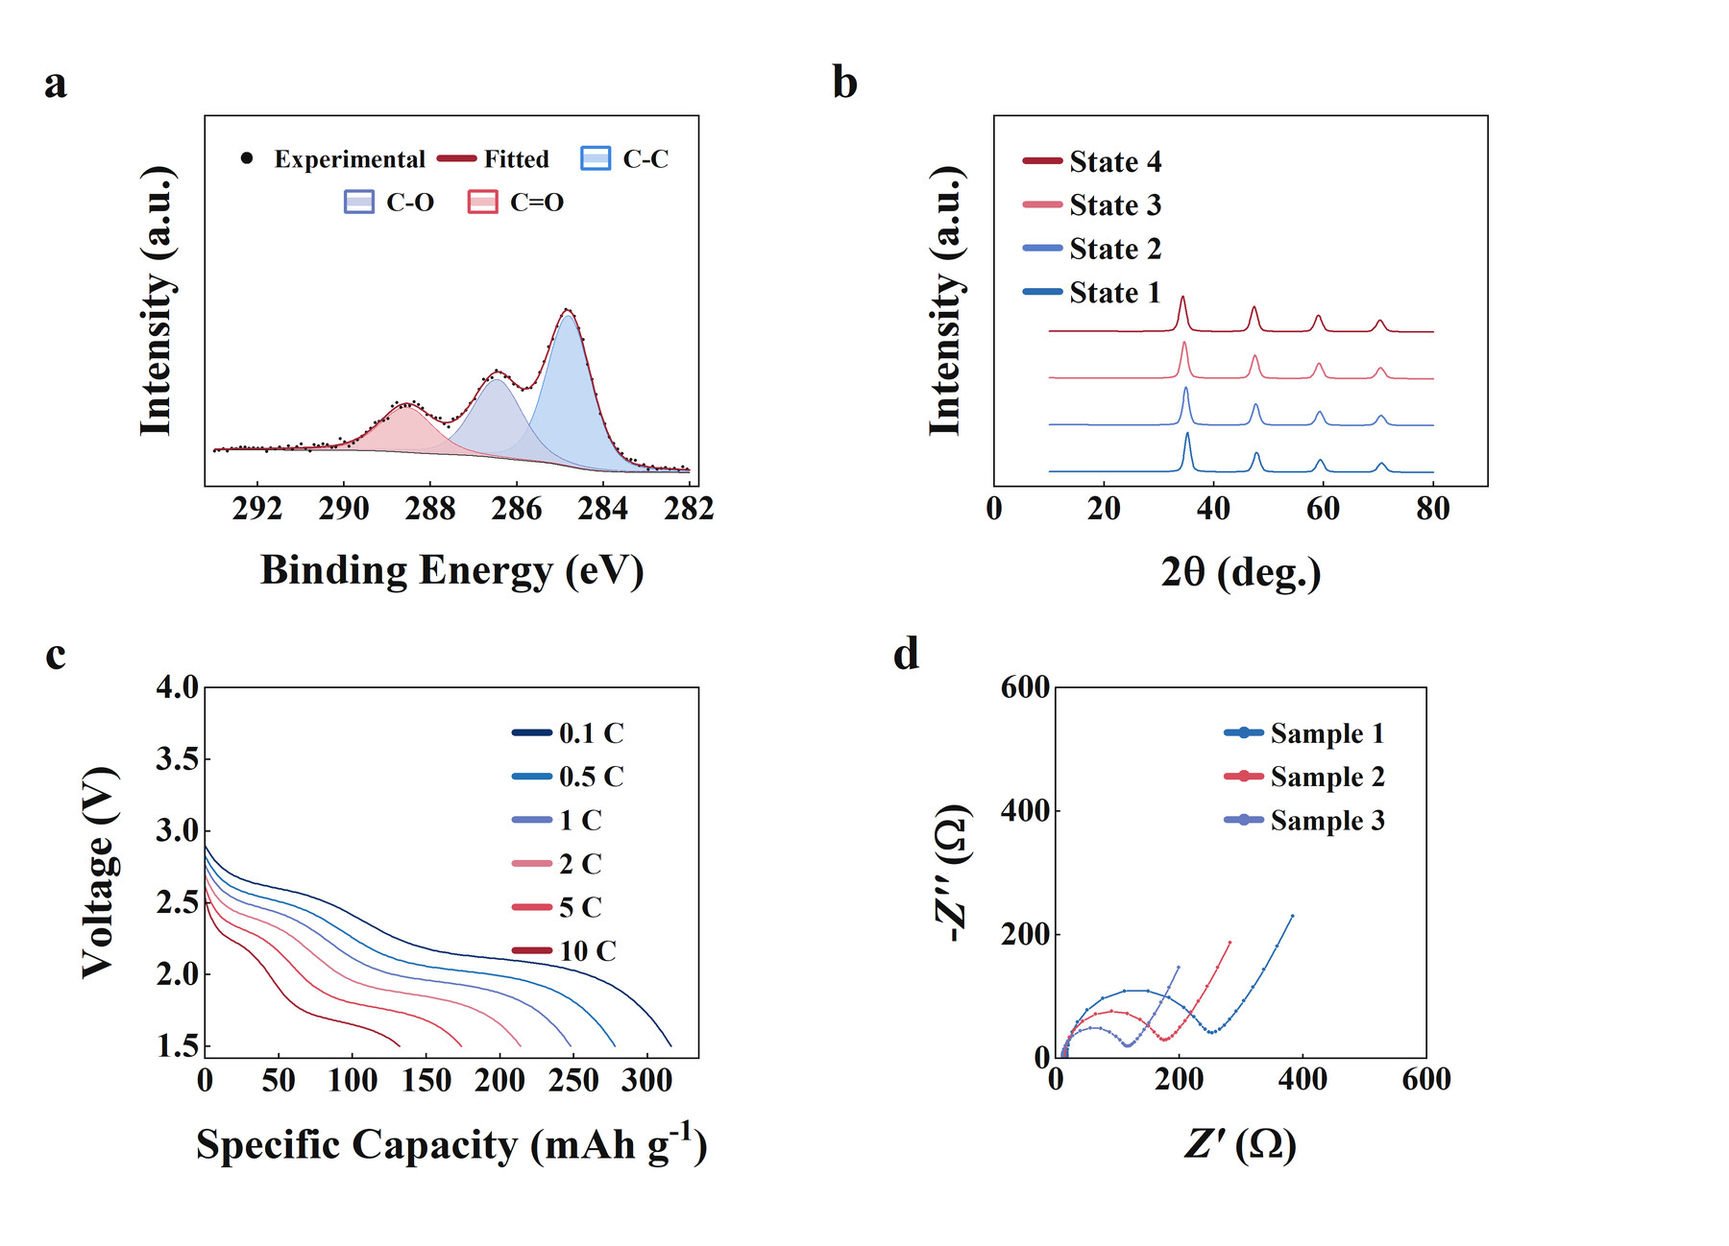
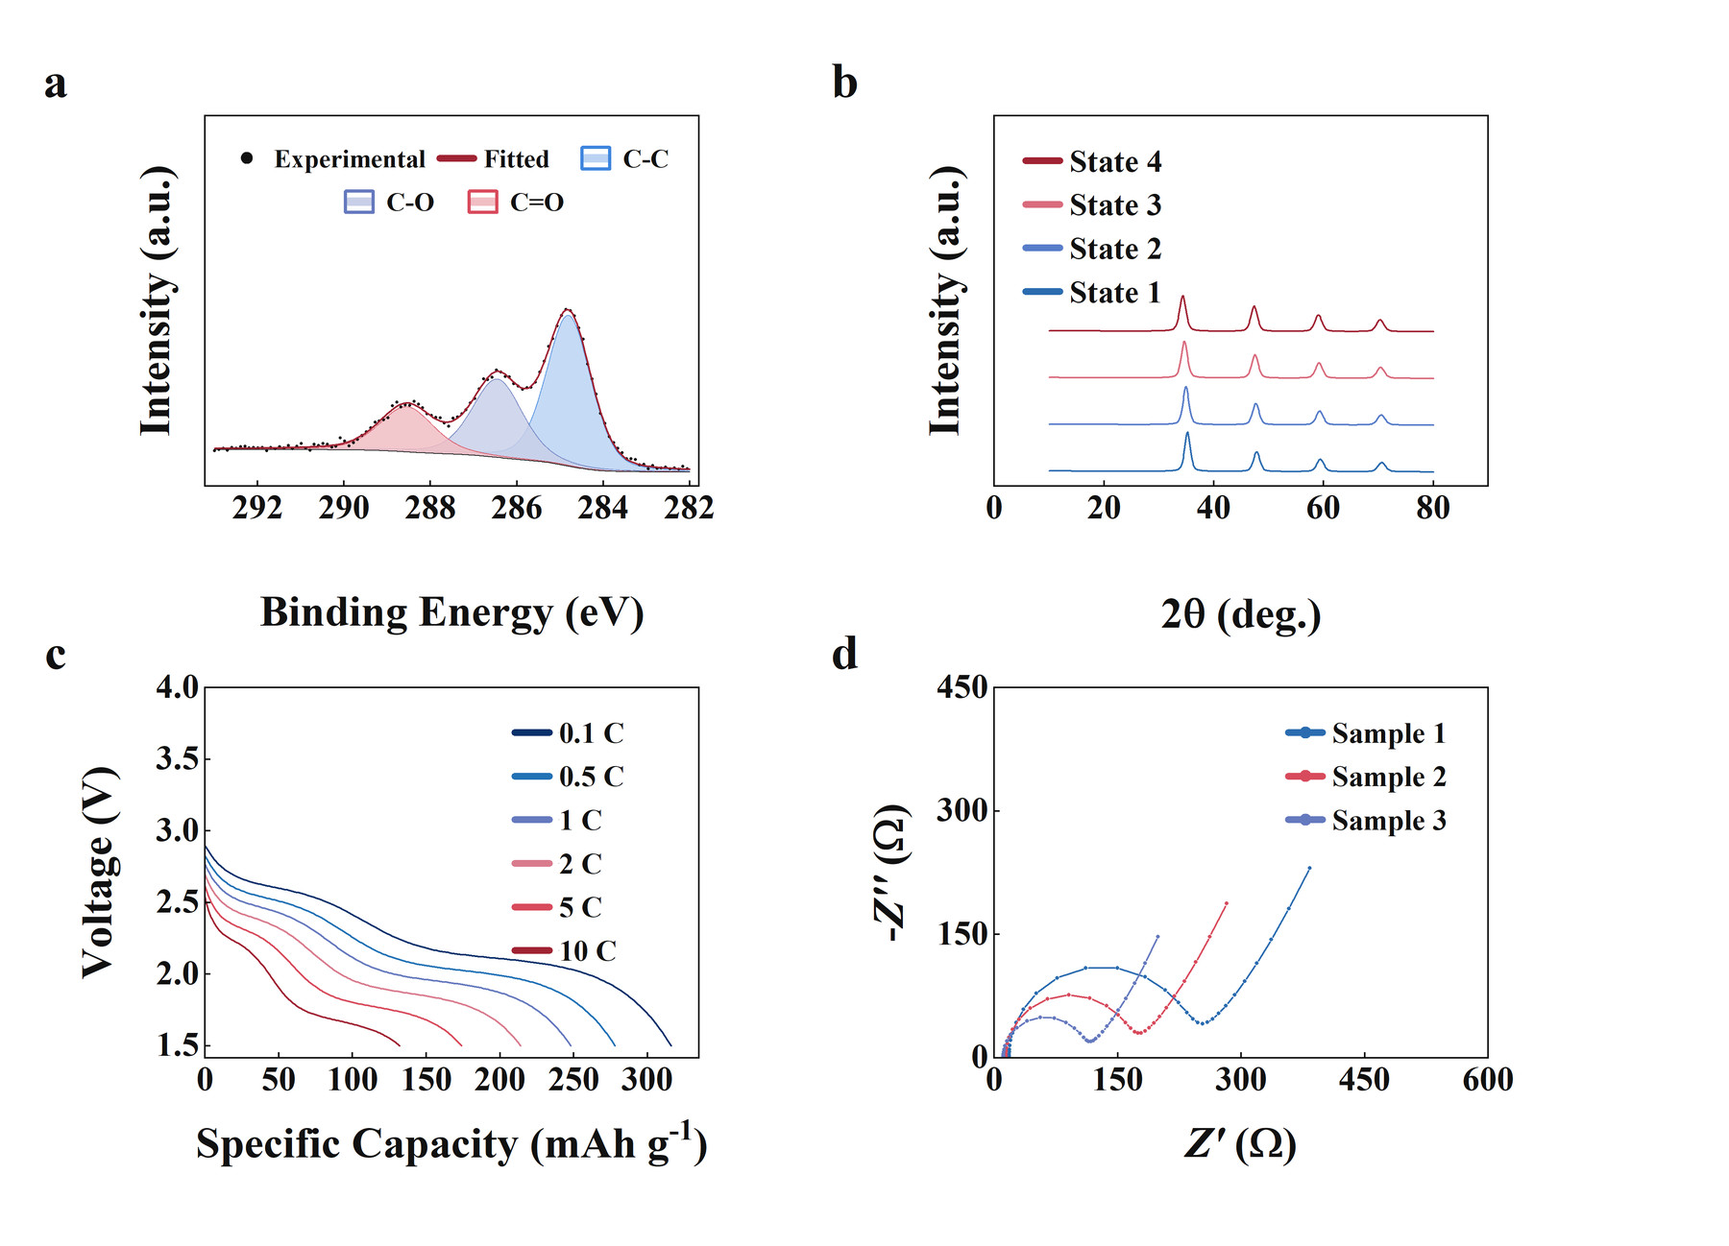
feat(v8.0): unify 2x2 composite Nyquist 4:3 frame geometry, add frame guard, and release v8.0.0

diff --git a/skills/sci-origin-pipeline/scripts/origin_builder.py b/skills/sci-origin-pipeline/scripts/origin_builder.py
@@ -4134,7 +4134,7 @@ def build_composite_opju(
                 )
                 panel_sheets.append((letter, p, wks))
 
-        # Master 2x2 Composite Page (row-aligned 4:3 `4.10 x 3.08 in` + 1:1 `3.08 x 3.08 in` physical boxes)
+        # Master 2x2 Composite Page (grid-aligned 4:3 `4.10 x 3.075 in` physical boxes across all 1D & EIS Nyquist panels)
         op.pe.cd(root_path)
         gp_comp = op.new_graph(lname=f"{title}_MasterComposite")
         col_step_in = 6.55
@@ -4149,7 +4149,7 @@ def build_composite_opju(
             r_i, c_i = idx // nc, idx % nc
             c_left_in = 1.70 + c_i * col_step_in
             c_top_in = 0.96 + r_i * row_step_in
-            c_box_in = (c_left_in, c_top_in, 4.10, 3.08)
+            c_box_in = (c_left_in, c_top_in, 4.10, 3.075)
             rect_c = ot.rect_in_to_page_pct(*c_box_in, comp_w_in, comp_h_in)
 
             gl_c = gp_comp[0] if idx == 0 else gp_comp.add_layer(0)
@@ -4250,7 +4250,7 @@ def build_composite_opju(
                 )
 
             elif ptype == "nyquist":
-                max_zr_c, max_nzi_c, hf_max_c = 0.0, 0.0, 0.0
+                max_zr_c, max_nzi_c, hf_zr_c, hf_nzi_c = 0.0, 0.0, 0.0, 0.0
                 leg_c = []
                 for wks_e, item in ref_obj:
                     c_hex = ot.normalize_hex(item.get("color", "#3E86DE"))
@@ -4267,19 +4267,15 @@ def build_composite_opju(
                     max_zr_c = max(max_zr_c, float(np.max(zr_a)))
                     max_nzi_c = max(max_nzi_c, float(np.max(nzi_a)))
                     n_hf_c = max(6, len(zr_a) // 3)
-                    hf_max_c = max(hf_max_c, float(np.max(zr_a[:n_hf_c])), float(np.max(nzi_a[:n_hf_c])))
+                    hf_zr_c = max(hf_zr_c, float(np.max(zr_a[:n_hf_c])))
+                    hf_nzi_c = max(hf_nzi_c, float(np.max(nzi_a[:n_hf_c])))
 
-                raw_sp_c = max(max_zr_c, max_nzi_c)
-                lim = min(raw_sp_c * 1.06, max(1200.0, max_zr_c * 2.35)) if max_nzi_c > 2.2 * max(max_zr_c, 1.0) else max(raw_sp_c * 1.12, 1.0)
-                step_c = 1000.0 if lim > 1500.0 else (500.0 if lim > 800.0 else 200.0)
-                lim = math.ceil(lim / step_c) * step_c
+                x_lim_c, y_lim_c, step_c = compute_isometric_4_3_bounds(max_zr_c, max_nzi_c)
+                xlim_c_top = x_lim_c[1]
+                ylim_c_top = y_lim_c[1]
 
-                nyq_left_in = c_left_in + 0.5 * (4.10 - 3.08)
-                nyq_box_in = (nyq_left_in, c_top_in, 3.08, 3.08)
-                rect_nyq = ot.rect_in_to_page_pct(*nyq_box_in, comp_w_in, comp_h_in)
-
-                gl_c.set_xlim(0.0, lim)
-                gl_c.set_ylim(0.0, lim)
+                gl_c.set_xlim(0.0, xlim_c_top)
+                gl_c.set_ylim(0.0, ylim_c_top)
                 _style_origin_layer_boxed(
                     gl_c,
                     "\\i(Z') (\\g(W))",
@@ -4288,20 +4284,26 @@ def build_composite_opju(
                     box_thickness=cell_bt,
                     tick_label_pt=16.5,
                     axis_title_pt=20.0,
-                    layer_rect_pct=rect_nyq,
-                    layer_rect_in=nyq_box_in,
+                    layer_rect_pct=rect_c,
+                    layer_rect_in=c_box_in,
                     remove_legend=True,
                     op=op,
                     gp=gp_comp,
                     layer_num_1based=lay_num,
                 )
                 activate_layer(op, gp_comp, lay_num)
-                gl_c.lt_exec(f"layer.x.inc={step_c}; layer.y.inc={step_c};")
+                gl_c.lt_exec(
+                    f"layer.x.from=0; layer.x.to={xlim_c_top}; layer.x.inc={step_c}; "
+                    f"layer.y.from=0; layer.y.to={ylim_c_top}; layer.y.inc={step_c};"
+                )
                 if p_title_str:
-                    add_page_text_label(op, gp_comp, gl_c, lay_num, f"PnlTitle{lay_num}", p_title_str, rect_nyq[0] + 0.5 * rect_nyq[2], max(1.8, rect_nyq[1] - 2.3), fontsize=17.5, pos_scatter=0, format_math=False)
+                    add_page_text_label(op, gp_comp, gl_c, lay_num, f"PnlTitle{lay_num}", p_title_str, rect_c[0] + 0.5 * rect_c[2], max(1.8, rect_c[1] - 2.3), fontsize=17.5, pos_scatter=0, format_math=False)
 
-                if p.get("add_hf_inset", True) and 0.0 < hf_max_c < 0.45 * lim:
-                    in_lim_c = math.ceil((hf_max_c * 1.18) / 20.0) * 20.0 if hf_max_c > 25.0 else hf_max_c * 1.18
+                hf_max_c = max(hf_zr_c, hf_nzi_c)
+                if p.get("add_hf_inset", True) and 0.0 < hf_max_c < 0.45 * xlim_c_top:
+                    in_u_c = max((hf_zr_c * 1.16) / 4.0, (hf_nzi_c * 1.16) / 3.0)
+                    in_u_c = math.ceil(in_u_c / 5.0) * 5.0 if in_u_c >= 15.0 else max(round(in_u_c, 2), 0.5)
+                    in_xl_c, in_yl_c = 4.0 * in_u_c, 3.0 * in_u_c
                     gl_in_c = gp_comp.add_layer(0)
                     in_lay_num = int(gp_comp.obj.Layers.Count)
                     activate_layer(op, gp_comp, in_lay_num)
@@ -4311,8 +4313,8 @@ def build_composite_opju(
                     font_ic = f"layer.x.label.font={f_id_c}; layer.y.label.font={f_id_c}; " if f_id_c > 0 else ""
                     wks_c_bg = op.new_book("w", lname=f"{title}_CInBG")[0]
                     wks_c_bg.cols = 3
-                    wks_c_bg.from_list(0, [0.0, in_lim_c], axis="X")
-                    wks_c_bg.from_list(1, [in_lim_c, in_lim_c], axis="Y")
+                    wks_c_bg.from_list(0, [0.0, in_xl_c], axis="X")
+                    wks_c_bg.from_list(1, [in_yl_c, in_yl_c], axis="Y")
                     wks_c_bg.from_list(2, [0.0, 0.0], axis="Y")
                     pc_bu = gl_in_c.add_plot(wks_c_bg, coly=1, colx=0, type="l")
                     pc_bl = gl_in_c.add_plot(wks_c_bg, coly=2, colx=0, type="l")
@@ -4322,10 +4324,11 @@ def build_composite_opju(
                     pc_bu.transparency = 0
                     pc_bl.transparency = 100
                     gl_in_c.lt_exec("range rbu = !1; set rbu -w 0; range rbl = !2; set rbl -w 0;")
-                    in_li = nyq_left_in + 0.46 * 3.08
-                    in_ti = c_top_in + 0.38 * 3.08
-                    in_si = 0.44 * 3.08
-                    ins_c_scale = ot.compute_origin_layer_scale(in_si, in_si, comp_w_in, comp_h_in)
+                    in_wi = 0.42 * c_box_in[2]
+                    in_hi = 0.42 * c_box_in[3]
+                    in_li = c_left_in + 0.51 * c_box_in[2]
+                    in_ti = c_top_in + 0.42 * c_box_in[3]
+                    ins_c_scale = ot.compute_origin_layer_scale(in_wi, in_hi, comp_w_in, comp_h_in)
                     for wks_e, item in ref_obj:
                         c_hex_i = ot.normalize_hex(item.get("color", "#3E86DE"))
                         p_ic = gl_in_c.add_plot(wks_e, coly=2, colx=1, type="y")
@@ -4335,19 +4338,23 @@ def build_composite_opju(
                         gl_in_c.lt_exec(f"range ric = !{ic_idx}; set ric -w {int(round((cell_cw_u * 0.72) / ins_c_scale))};")
                         p_ic.symbol_kind = 2
                         p_ic.symbol_interior = 0
-                    gl_in_c.set_xlim(0.0, in_lim_c)
-                    gl_in_c.set_ylim(0.0, in_lim_c)
+                    gl_in_c.set_xlim(0.0, in_xl_c)
+                    gl_in_c.set_ylim(0.0, in_yl_c)
                     ins_c_bt = max(1.0, round(cell_bt * 0.72, 2))
-                    ins_c_tk_pt = ot.compensate_origin_layer_pt(11.5, in_si, in_si, comp_w_in, comp_h_in)
+                    ins_c_tk_pt = ot.compensate_origin_layer_pt(11.5, in_wi, in_hi, comp_w_in, comp_h_in)
+                    inc_cx = compute_nice_linear_step(0.0, in_xl_c, max_ticks=3) or (2.0 * in_u_c)
+                    inc_cy = compute_nice_linear_step(0.0, in_yl_c, max_ticks=3) or in_u_c
                     gl_in_c.lt_exec(
                         f"layer.fsize=1; "
-                        f"layer.unit=2; layer.left={in_li}; layer.top={in_ti}; layer.width={in_si}; layer.height={in_si}; "
+                        f"layer.unit=2; layer.left={in_li}; layer.top={in_ti}; layer.width={in_wi}; layer.height={in_hi}; "
                         f"layer.color={white_i}; layer.x.grid.show=0; layer.y.grid.show=0; "
                         f"layer.x.showAxes=3; layer.y.showAxes=3; "
                         f"layer.x.thickness={ins_c_bt}; layer.y.thickness={ins_c_bt}; layer.x2.thickness={ins_c_bt}; layer.y2.thickness={ins_c_bt}; "
                         f"layer.x.color={ink_i}; layer.y.color={ink_i}; layer.x2.color={ink_i}; layer.y2.color={ink_i}; "
                         f"layer.x.label.color={ink_i}; layer.y.label.color={ink_i}; "
                         f"layer.x.ticks=1; layer.y.ticks=1; layer.x2.ticks=0; layer.y2.ticks=0; "
+                        f"layer.x.from=0; layer.x.to={in_xl_c}; layer.x.inc={inc_cx}; "
+                        f"layer.y.from=0; layer.y.to={in_yl_c}; layer.y.inc={inc_cy}; "
                         f"layer.x.maxTicks=3; layer.y.maxTicks=3; "
                         f"{font_ic}"
                         f"layer.x.label.pt={ins_c_tk_pt}; layer.y.label.pt={ins_c_tk_pt}; layer.x.label.bold={bold_i}; layer.y.label.bold={bold_i}; "
@@ -4355,7 +4362,7 @@ def build_composite_opju(
                     )
 
                 configure_custom_legend(
-                    gl_c, leg_c, fontsize=13.5, pos_mode="corner_upper_right", layer_rect_pct=rect_nyq, op=op, gp=gp_comp, layer_num_1based=lay_num
+                    gl_c, leg_c, fontsize=13.5, pos_mode="corner_upper_right", layer_rect_pct=rect_c, op=op, gp=gp_comp, layer_num_1based=lay_num
                 )
 
             elif ptype == "xy_series":
@@ -4412,7 +4419,7 @@ def build_composite_opju(
                     gl_c, leg_c, fontsize=13.5, pos_mode="corner_upper_right", layer_rect_pct=rect_c, op=op, gp=gp_comp, layer_num_1based=lay_num
                 )
 
-            tag_left_in = (nyq_left_in if ptype == "nyquist" else c_left_in) - 1.24
+            tag_left_in = c_left_in - 1.24
             tag_top_in = max(0.28, c_top_in - 0.30)
             add_page_text_label(
                 op,

diff --git a/examples/generate_synthetic_gallery.py b/examples/generate_synthetic_gallery.py
@@ -1,5 +1,5 @@
 """
-generate_synthetic_gallery.py - Unified 100% Synthetic Mathematical Demo Generator for SciOrigin v7.0.
+generate_synthetic_gallery.py - Unified 100% Synthetic Mathematical Demo Generator for SciOrigin v8.0.
 
 Generates all 43 publication-ready showcase figures directly in headless OriginPro 2024 (`skip_origin=False`)
 across five modular showcase suites — zero external or private data files required:
@@ -64,9 +64,63 @@ def run_gallery_parts(part: str = "all", gallery_dir: Path = GALLERY_DIR) -> Lis
     return generated
 
 
+def audit_gallery_nyquist_and_composite_frames(gallery_dir: Path = GALLERY_DIR) -> None:
+    """Mechanical pixel-frame guard ensuring EIS Nyquist & 2x2 composite panels never regress to 1:1 square boxes."""
+    import numpy as np
+    from PIL import Image
+
+    gallery_dir = Path(gallery_dir).resolve()
+    for name in ("demo_nyquist_tnr.jpg", "demo_nyquist_arial.jpg", "demo_dual_y_tnr.jpg"):
+        img_p = gallery_dir / name
+        if not img_p.exists():
+            continue
+        gray = np.asarray(Image.open(img_p).convert("L"))
+        dark = gray < 90
+        rows = np.where(dark.mean(axis=1) > 0.35)[0]
+        cols = np.where(dark.mean(axis=0) > 0.35)[0]
+        if len(rows) < 2 or len(cols) < 2:
+            raise AssertionError(f"[FrameGuard] Could not detect closed box frame in {img_p}")
+        ratio = float(cols[-1] - cols[0]) / max(float(rows[-1] - rows[0]), 1.0)
+        if abs(ratio - (4.0 / 3.0)) > 0.025:
+            raise AssertionError(
+                f"[FrameGuard] {name} inner frame ratio is {ratio:.4f} (expected 4:3 = 1.3333). "
+                "Fix: use standard box_rect_w_in x box_rect_h_in (6.40 x 4.80 in) with 4:3 isometric bounds."
+            )
+
+    hero_p = gallery_dir / "demo_hero_composite_2x2.jpg"
+    if hero_p.exists():
+        gray = np.asarray(Image.open(hero_p).convert("L"))
+        h, w = gray.shape
+        quads = {
+            "a": gray[: h // 2, : w // 2],
+            "b": gray[: h // 2, w // 2 :],
+            "c": gray[h // 2 :, : w // 2],
+            "d": gray[h // 2 :, w // 2 :],
+        }
+        boxes = {}
+        for k, q in quads.items():
+            dk = q < 90
+            rs = np.where(dk.mean(axis=1) > 0.35)[0]
+            cs = np.where(dk.mean(axis=0) > 0.35)[0]
+            if len(rs) < 2 or len(cs) < 2:
+                raise AssertionError(f"[FrameGuard] Missing closed box border in hero panel ({k}) of {hero_p}")
+            boxes[k] = (int(cs[0]), int(cs[-1]), int(rs[0]), int(rs[-1]))
+            q_ratio = float(cs[-1] - cs[0]) / max(float(rs[-1] - rs[0]), 1.0)
+            if abs(q_ratio - (4.0 / 3.0)) > 0.03:
+                raise AssertionError(
+                    f"[FrameGuard] Hero composite panel ({k}) ratio is {q_ratio:.4f} (expected 4:3 = 1.3333). "
+                    "Fix: ensure build_composite_opju MasterComposite uses c_box_in (4.10 x 3.075 in) for nyquist too."
+                )
+        if abs(boxes["b"][0] - boxes["d"][0]) > 3 or abs(boxes["b"][1] - boxes["d"][1]) > 3:
+            raise AssertionError(
+                f"[FrameGuard] Hero panels (b)={boxes['b'][:2]} and (d)={boxes['d'][:2]} horizontal borders misaligned! "
+                "Fix: align nyquist panel to c_left_in / rect_c in build_composite_opju."
+            )
+
+
 def main(argv: List[str] | None = None) -> int:
     parser = argparse.ArgumentParser(
-        description="Generate 100% synthetic SciOrigin v7.0 showcase figures via headless OriginPro 2024."
+        description="Generate 100% synthetic SciOrigin v8.0 showcase figures via headless OriginPro 2024."
     )
     parser.add_argument(
         "--part",
@@ -80,8 +134,15 @@ def main(argv: List[str] | None = None) -> int:
         default=GALLERY_DIR,
         help="Destination directory for rendered gallery JPEG files.",
     )
+    parser.add_argument(
+        "--verify-only",
+        action="store_true",
+        help="Run mechanical frame geometry guard on existing gallery JPEGs without launching OriginPro.",
+    )
     args = parser.parse_args(argv)
-    run_gallery_parts(part=args.part, gallery_dir=args.gallery_dir)
+    if not args.verify_only:
+        run_gallery_parts(part=args.part, gallery_dir=args.gallery_dir)
+    audit_gallery_nyquist_and_composite_frames(args.gallery_dir)
     return 0
 
 

diff --git a/skills/sci-origin-pipeline/scripts/plotter.py b/skills/sci-origin-pipeline/scripts/plotter.py
@@ -1112,35 +1112,48 @@ def plot_composite_figure(
         elif ptype == "nyquist":
             eis_series = p["eis_series"]
             mks = ["o", "s", "^", "D"]
-            max_span, hf_max = 0.0, 0.0
+            max_zr, max_nzi, hf_zr, hf_nzi = 0.0, 0.0, 0.0, 0.0
             for s_i, item in enumerate(eis_series):
-                zr, nzi = item["z_real"], item["neg_z_imag"]
+                zr = np.asarray(item["z_real"], dtype=float)
+                nzi = np.asarray(item["neg_z_imag"], dtype=float)
                 col = item.get("color") or pal[s_i % len(pal)]
                 mk = mks[s_i % len(mks)]
                 ax.plot(zr, nzi, marker=mk, ms=4.5, mfc="white" if s_i % 2 == 1 else col, mec=col, lw=1.5, color=col, label=item["name"])
-                max_span = max(max_span, float(np.max(zr)), float(np.max(nzi)))
+                max_zr = max(max_zr, float(np.max(zr)))
+                max_nzi = max(max_nzi, float(np.max(nzi)))
                 n_hf = max(6, len(zr) // 3)
-                hf_max = max(hf_max, float(np.max(zr[:n_hf])), float(np.max(nzi[:n_hf])))
-            lim = max_span * 1.16
-            ax.set_xlim(0.0, lim)
-            ax.set_ylim(0.0, lim)
+                hf_zr = max(hf_zr, float(np.max(zr[:n_hf])))
+                hf_nzi = max(hf_nzi, float(np.max(nzi[:n_hf])))
+            req_x = max(max_zr * 1.08, 1.0)
+            req_y = min(max_nzi * 1.08, max(900.0, max_zr * 1.45)) if max_nzi > 2.2 * max(max_zr, 1.0) else max(max_nzi * 1.08, 1.0)
+            need_step = max(req_x / 4.0, req_y / 3.0, 1e-6)
+            step = float(math.ceil(need_step / 5000.0) * 5000.0)
+            for cand in (0.1, 0.2, 0.25, 0.5, 1.0, 2.0, 2.5, 3.0, 5.0, 10.0, 15.0, 20.0, 25.0, 30.0, 50.0, 75.0, 100.0, 150.0, 200.0, 250.0, 300.0, 500.0, 750.0, 1000.0, 1500.0, 2000.0, 2500.0, 3000.0, 5000.0):
+                if cand + 1e-9 >= need_step:
+                    step = float(cand)
+                    break
+            xlim_top, ylim_top = 4.0 * step, 3.0 * step
+            ax.set_xlim(0.0, xlim_top)
+            ax.set_ylim(0.0, ylim_top)
             ax.set_aspect("equal", adjustable="box")
+            ax.xaxis.set_major_locator(ticker.MultipleLocator(step))
+            ax.yaxis.set_major_locator(ticker.MultipleLocator(step))
             ax.set_xlabel("$Z'$ ($\\Omega$)")
             ax.set_ylabel("$-Z''$ ($\\Omega$)")
             ax.xaxis.set_minor_locator(ticker.AutoMinorLocator(5))
             ax.yaxis.set_minor_locator(ticker.AutoMinorLocator(5))
             ax.text(0.04, 0.95, p_label, transform=ax.transAxes, fontsize=11.8, fontweight="bold", va="top")
-            leg = ax.legend(loc="lower right", frameon=False, prop={"weight": "bold", "size": 10.2})
+            leg = ax.legend(loc="upper right", frameon=False, prop={"weight": "bold", "size": 10.2})
             for t in leg.get_texts():
                 t.set_fontweight("bold")
-            if p.get("add_hf_inset", True) and 0 < hf_max < 0.38 * lim:
-                ax_in = ax.inset_axes([0.52, 0.50, 0.43, 0.43])
+            if p.get("add_hf_inset", True) and 0 < max(hf_zr, hf_nzi) < 0.42 * xlim_top:
+                ax_in = ax.inset_axes([0.51, 0.14, 0.42, 0.42])
                 for s_i, item in enumerate(eis_series):
                     col = item.get("color") or pal[s_i % len(pal)]
                     ax_in.plot(item["z_real"], item["neg_z_imag"], marker=mks[s_i % len(mks)], ms=3.2, mfc="white" if s_i % 2 == 1 else col, mec=col, lw=1.1, color=col)
-                in_lim = hf_max * 1.15
-                ax_in.set_xlim(0.0, in_lim)
-                ax_in.set_ylim(0.0, in_lim)
+                in_u = max((hf_zr * 1.15) / 4.0, (hf_nzi * 1.15) / 3.0, 0.5)
+                ax_in.set_xlim(0.0, 4.0 * in_u)
+                ax_in.set_ylim(0.0, 3.0 * in_u)
                 ax_in.set_aspect("equal", adjustable="box")
                 ax_in.tick_params(labelsize=8.5, direction="in")
                 _bold_ticks(ax_in)

diff --git a/examples/gallery_part2_electrochem.py b/examples/gallery_part2_electrochem.py
@@ -2,7 +2,7 @@
 gallery_part2_electrochem.py - 100% Analytical Electrochemistry, Impedance & Operando 2D Gallery (Part 2).
 
 Renders 7 publication-grade showcase figures directly in headless OriginPro 2024:
-  1. demo_hero_composite_2x2.jpg      - 2x2 Multi-Modal Master Figure (Deconv + Diffraction Stack + Rate Q-V + 1:1 Nyquist)
+  1. demo_hero_composite_2x2.jpg      - 2x2 Multi-Modal Master Figure (Deconv + Diffraction Stack + Rate Q-V + 4:3 Isometric Nyquist)
   2. demo_rate_galvanostatic.jpg      - 7-rate galvanostatic discharge profiles (0.1 C .. 10 C, deep_blue_to_red)
   3. demo_dqdv_coupled.jpg            - 1x2 coupled charge/discharge Q-V + smoothed dQ/dV redox peaks
   4. demo_pulse_align.jpg             - Zero-aligned short-pulse transients across 6 rates + Delta V_0 & Delta V_slow spans
@@ -170,7 +170,7 @@ def _build_hero_composite_panels() -> List[Dict[str, Any]]:
         qx, vy = _galvanostatic_discharge_curve(q_m, ir_d, pl_s, n_pts=160)
         rate_series.append({"name": r_lbl, "x": qx, "y": vy, "color": col_hex})
 
-    # (d) 1:1 Nyquist impedance curves sized cleanly across [0..600, 0..600] Ohm
+    # (d) Isometric 1 Ohm = 1 Ohm Nyquist curves inside standard 4:3 [0..600, 0..450] Ohm frame
     freqs_nyq = np.logspace(5.0, -1.2, 40)
     nyq_defs = [
         ("Sample 1", 18.0, 215.0, 1.8e-5, 95.0, 0.032, "#2B6CB0"),

diff --git a/examples/gallery_part3_declarative.py b/examples/gallery_part3_declarative.py
@@ -1,5 +1,5 @@
 """
-gallery_part3_declarative.py - Part 3 Synthetic Declarative Grammar Showcase Generator for SciOrigin v6.0.
+gallery_part3_declarative.py - Part 3 Synthetic Declarative Grammar Showcase Generator for SciOrigin v8.0.
 
 Renders 11 publication-grade figures (6 upgraded core demos + 5 brand-new declarative grammar modes)
 natively in headless OriginPro 2024 (`skip_origin=False`), downscaling exported 300 DPI PNGs via

diff --git a/skills/sci-origin-pipeline/SKILL.md b/skills/sci-origin-pipeline/SKILL.md
@@ -9,7 +9,7 @@ description: >-
   9 journal column specs (Nature/Science/Cell/ACS/IEEE), and bilingual EN/ZH Source_Data.xlsx workbooks.
 ---
 
-# SciOrigin Pipeline v7.0 · 全科研领域数据分析与 OriginPro 原生出图总控
+# SciOrigin Pipeline v8.0 · 全科研领域数据分析与 OriginPro 原生出图总控
 
 本 Skill 固定跨学科科研数据分析与成图的**核对数据、选择方法、统计/模型敏感性审查与原生出版交付闭环**。每次先看真实数据和研究问题，再决定方法、检验口径与结论边界。
 
